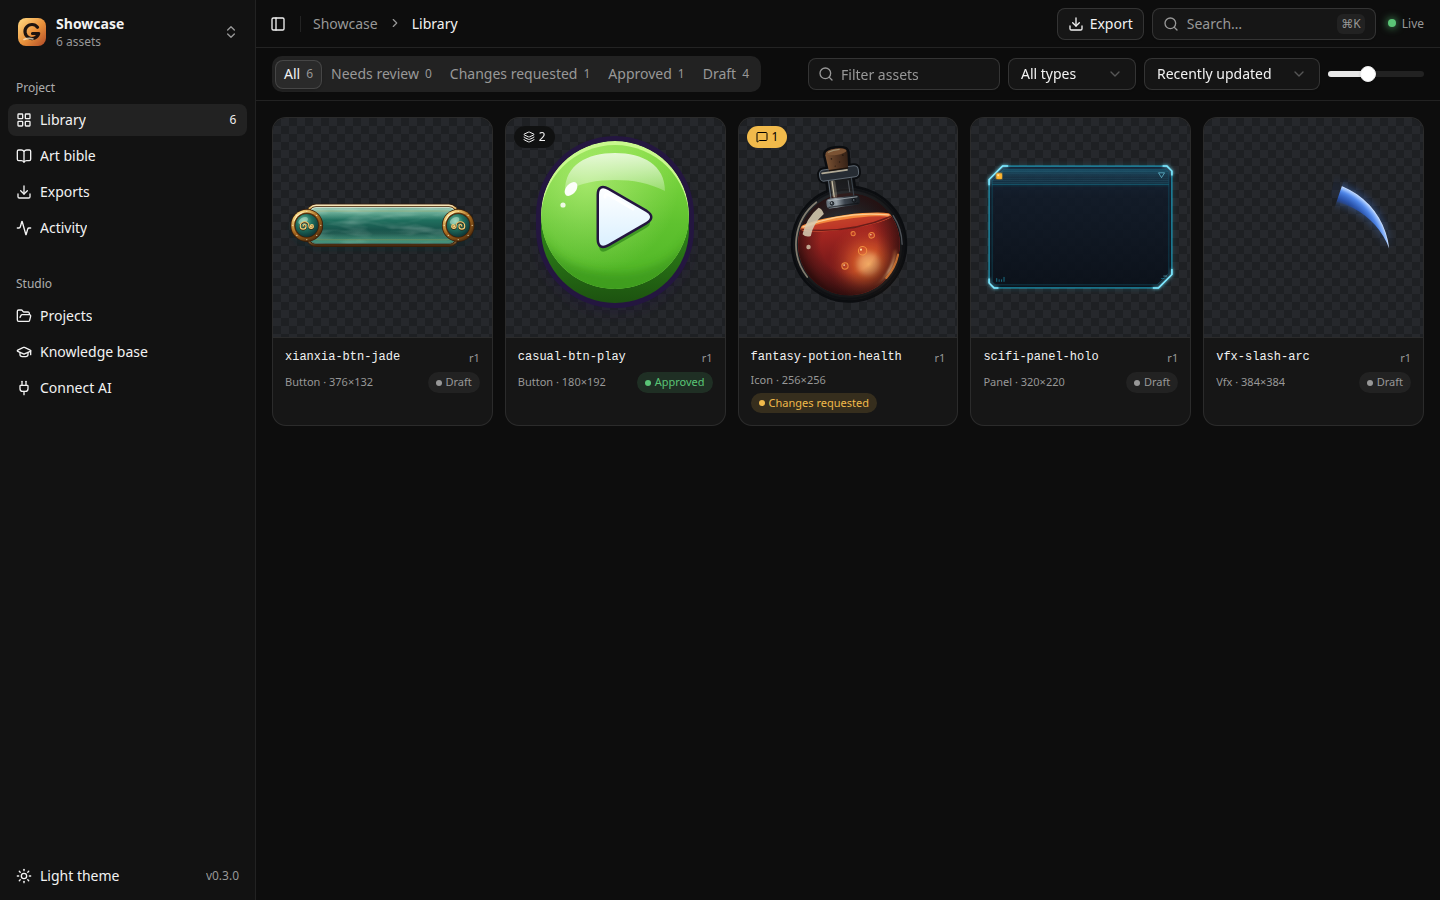
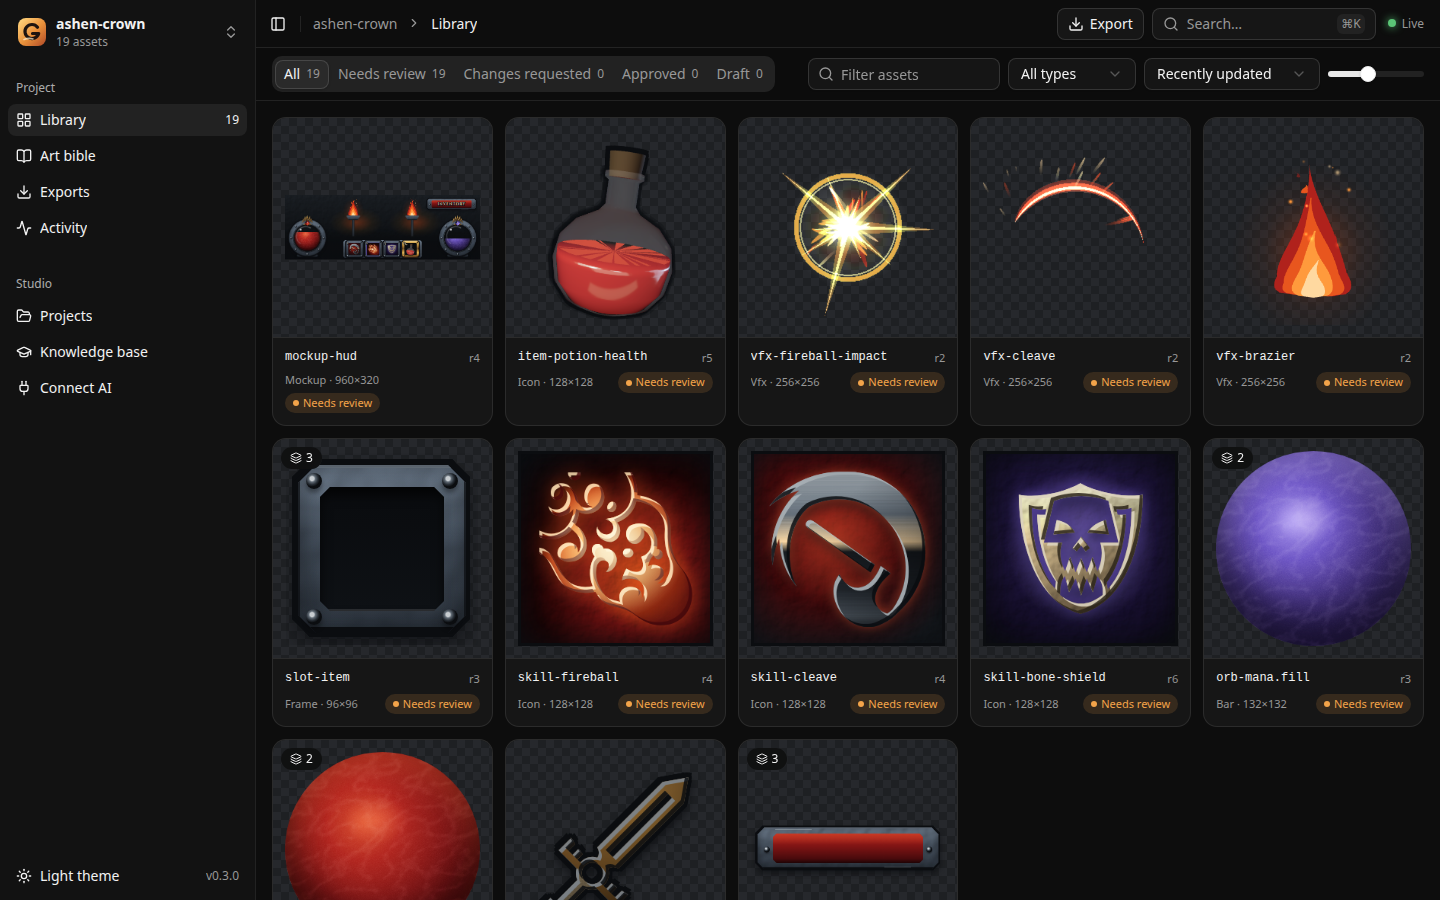
feat: enhance security measures for HTML assets with sandboxed CSP, update documentation and tests accordingly

diff --git a/server/utils/http.ts b/server/utils/http.ts
@@ -11,11 +11,13 @@ const HTML_CSP = [
   "font-src 'self' data:",
   "connect-src 'self' data: blob:",
   "worker-src 'self' blob:",
-  "frame-ancestors 'self'"
+  // Always an opaque origin, even when the file is opened directly: asset scripts never reach the studio API.
+  // (frame-ancestors would block mockups that embed other assets, since their parent is opaque too.)
+  'sandbox allow-scripts'
 ].join('; ');
 
 /**
- * HTML assets run in a sandboxed iframe (opaque origin) and may only load local files and the kit.
+ * HTML assets run sandboxed and may only load local files and the kit.
  * The player script lets the studio pause and scrub their animations.
  */
 export function sendHtml(event: H3Event, html: string) {

diff --git a/README.md b/README.md
@@ -13,7 +13,7 @@ You review, comment, approve and export in a live local studio.
 
 ![License: Apache-2.0](https://img.shields.io/badge/license-Apache--2.0-blue) ![Node ≥ 22.19](https://img.shields.io/badge/node-%E2%89%A5%2022.19-339933) ![MCP](https://img.shields.io/badge/MCP-HTTP%20%2B%20stdio-8A63D2) ![Local first](https://img.shields.io/badge/local--first-no%20account%20%C2%B7%20no%20API%20key-orange)
 
-<img src="docs/images/library.png" alt="Gesso library with assets from four genres" width="100%" />
+<img src="docs/images/library.png" alt="Gesso library: the Ashen Crown example, built on the kit" width="100%" />
 
 </div>
 
@@ -76,7 +76,7 @@ Each example is a real project folder with an art bible, a UI set, icons, VFX an
 
 ### Honest scoring
 
-The agent scores its own work, so the rubric ships with anchor sheets: real assets from these examples placed at 2 (reject), 3 (passable prototype) and 4 (good) for UI, icons and VFX, plus hard gates that cap scores. A 4 has to beat an anchor; a 5 has to name the shipped game it would sit beside. By that bar the kit's best work today is a 4, and most of it is a solid 3 to 4: fast, clean prototype art rather than a painted commercial finish. See [`knowledge/critique.md`](knowledge/critique.md) and [`knowledge/anchors/`](knowledge/anchors/).
+The agent scores its own work, so the rubric ships with anchor sheets: real assets from these examples (and the hand-typed SVG they replaced) placed at 2 (reject), 3 (passable prototype) and 4 (good) for UI, icons and VFX, plus hard gates that cap scores. A 4 has to beat an anchor; a 5 has to name the shipped game it would sit beside. By that bar the kit's best work today is a 4, and most of it is a solid 3 to 4: fast, clean prototype art rather than a painted commercial finish. See [`knowledge/critique.md`](knowledge/critique.md) and [`knowledge/anchors/`](knowledge/anchors/).
 
 ## Quick start
 

diff --git a/docs/architecture.md b/docs/architecture.md
@@ -38,7 +38,7 @@ Gesso is one Nuxt 4 application. The browser runs the studio (a single-page app)
 
 ## Rendering
 
-Assets are HTML documents on the Gesso Kit or SVG. The renderer opens each one on a private origin (`http://gesso.render`) where only the asset's folder and `/kit` resolve; every other request, including the Gesso API and the network, is aborted, so scripted assets (Pixi, three) cannot reach anything. Scripted assets register `window.gesso.render(t)` through `/kit/gesso.mjs`, and Gesso calls it for every review and export frame. In the studio, HTML assets run in a `sandbox="allow-scripts"` iframe with an opaque origin and a CSP limited to local resources.
+Assets are HTML documents on the Gesso Kit or SVG. The renderer opens each one on a private origin (`http://gesso.render`) where only the asset's folder and `/kit` resolve; every other request, including the Gesso API and the network, is aborted, so scripted assets (Pixi, three) cannot reach anything. Scripted assets register `window.gesso.render(t)` through `/kit/gesso.mjs`, and Gesso calls it for every review and export frame. In the studio, HTML assets are served with a CSP `sandbox allow-scripts` directive (an opaque origin even when a file is opened directly, so asset scripts cannot call the studio API) and load only local resources; mockups can embed other assets in nested iframes.
 
 `server/utils/render.ts` launches one shared Chromium (installed Chrome, then Edge, then Playwright's bundled Chromium, or `CHROME_PATH`). Each asset is opened as its own document so ids never collide. Scaling uses the SVG's `width`/`height` with its `viewBox`, so exports stay vector-sharp. Animations are sampled deterministically by pausing SMIL (`setCurrentTime`) and CSS animations (`currentTime`).
 

diff --git a/SECURITY.md b/SECURITY.md
@@ -15,6 +15,7 @@ Gesso runs on your machine, writes files and drives a browser, so it assumes tha
 - **Local only.** The server binds to `127.0.0.1` and rejects requests whose `Host` header is not local (DNS rebinding) or whose `Origin` is another site (cross-site requests to localhost).
 - **Confined writes.** Asset ids are validated (`[a-z0-9._-]`, no `..`), files are written only inside a registered project's `assets/`, `exports/` and `STYLE.md`, and new projects must live under your home directory.
 - **Inert SVG.** Assets are served with `Content-Security-Policy: script-src 'none'` and `nosniff`; lint rejects `<script>`, `<foreignObject>` and event handler attributes.
+- **Sandboxed HTML.** HTML assets are served with `Content-Security-Policy: sandbox allow-scripts`, so their scripts always run on an opaque origin and cannot call the studio API, even when a file is opened directly. The renderer loads them on a private origin where only the asset folder and `/kit` resolve and all other requests are aborted.
 - **Sanitized markdown.** Art bibles and guides are rendered with raw HTML disabled.
 - **No telemetry.** Gesso makes no network requests of its own. Rendering loads only the files you created.
 

diff --git a/CHANGELOG.md b/CHANGELOG.md
@@ -21,6 +21,11 @@ All notable changes to this project are documented here. The format follows [Kee
 - `view_assets` shows animated assets at a representative frame.
 - Pixi and three.js canvases are pinned to the top-left of the asset, so pages that also use `.g-canvas` no longer push them out of frame.
 - Pressed kit buttons move their lip with the face instead of exposing it above.
+- Mockups that embed other HTML assets now show them in the studio viewer (nested frames were blocked by `frame-ancestors`).
+- Static three.js assets release their WebGL context after rendering, so a mockup can embed dozens of rendered items instead of about 16.
+
+### Security
+- HTML assets are served with a CSP `sandbox allow-scripts` directive, so their scripts run on an opaque origin even when a file is opened outside the studio.
 
 ## [0.3.0] - 2026-09-25
 
